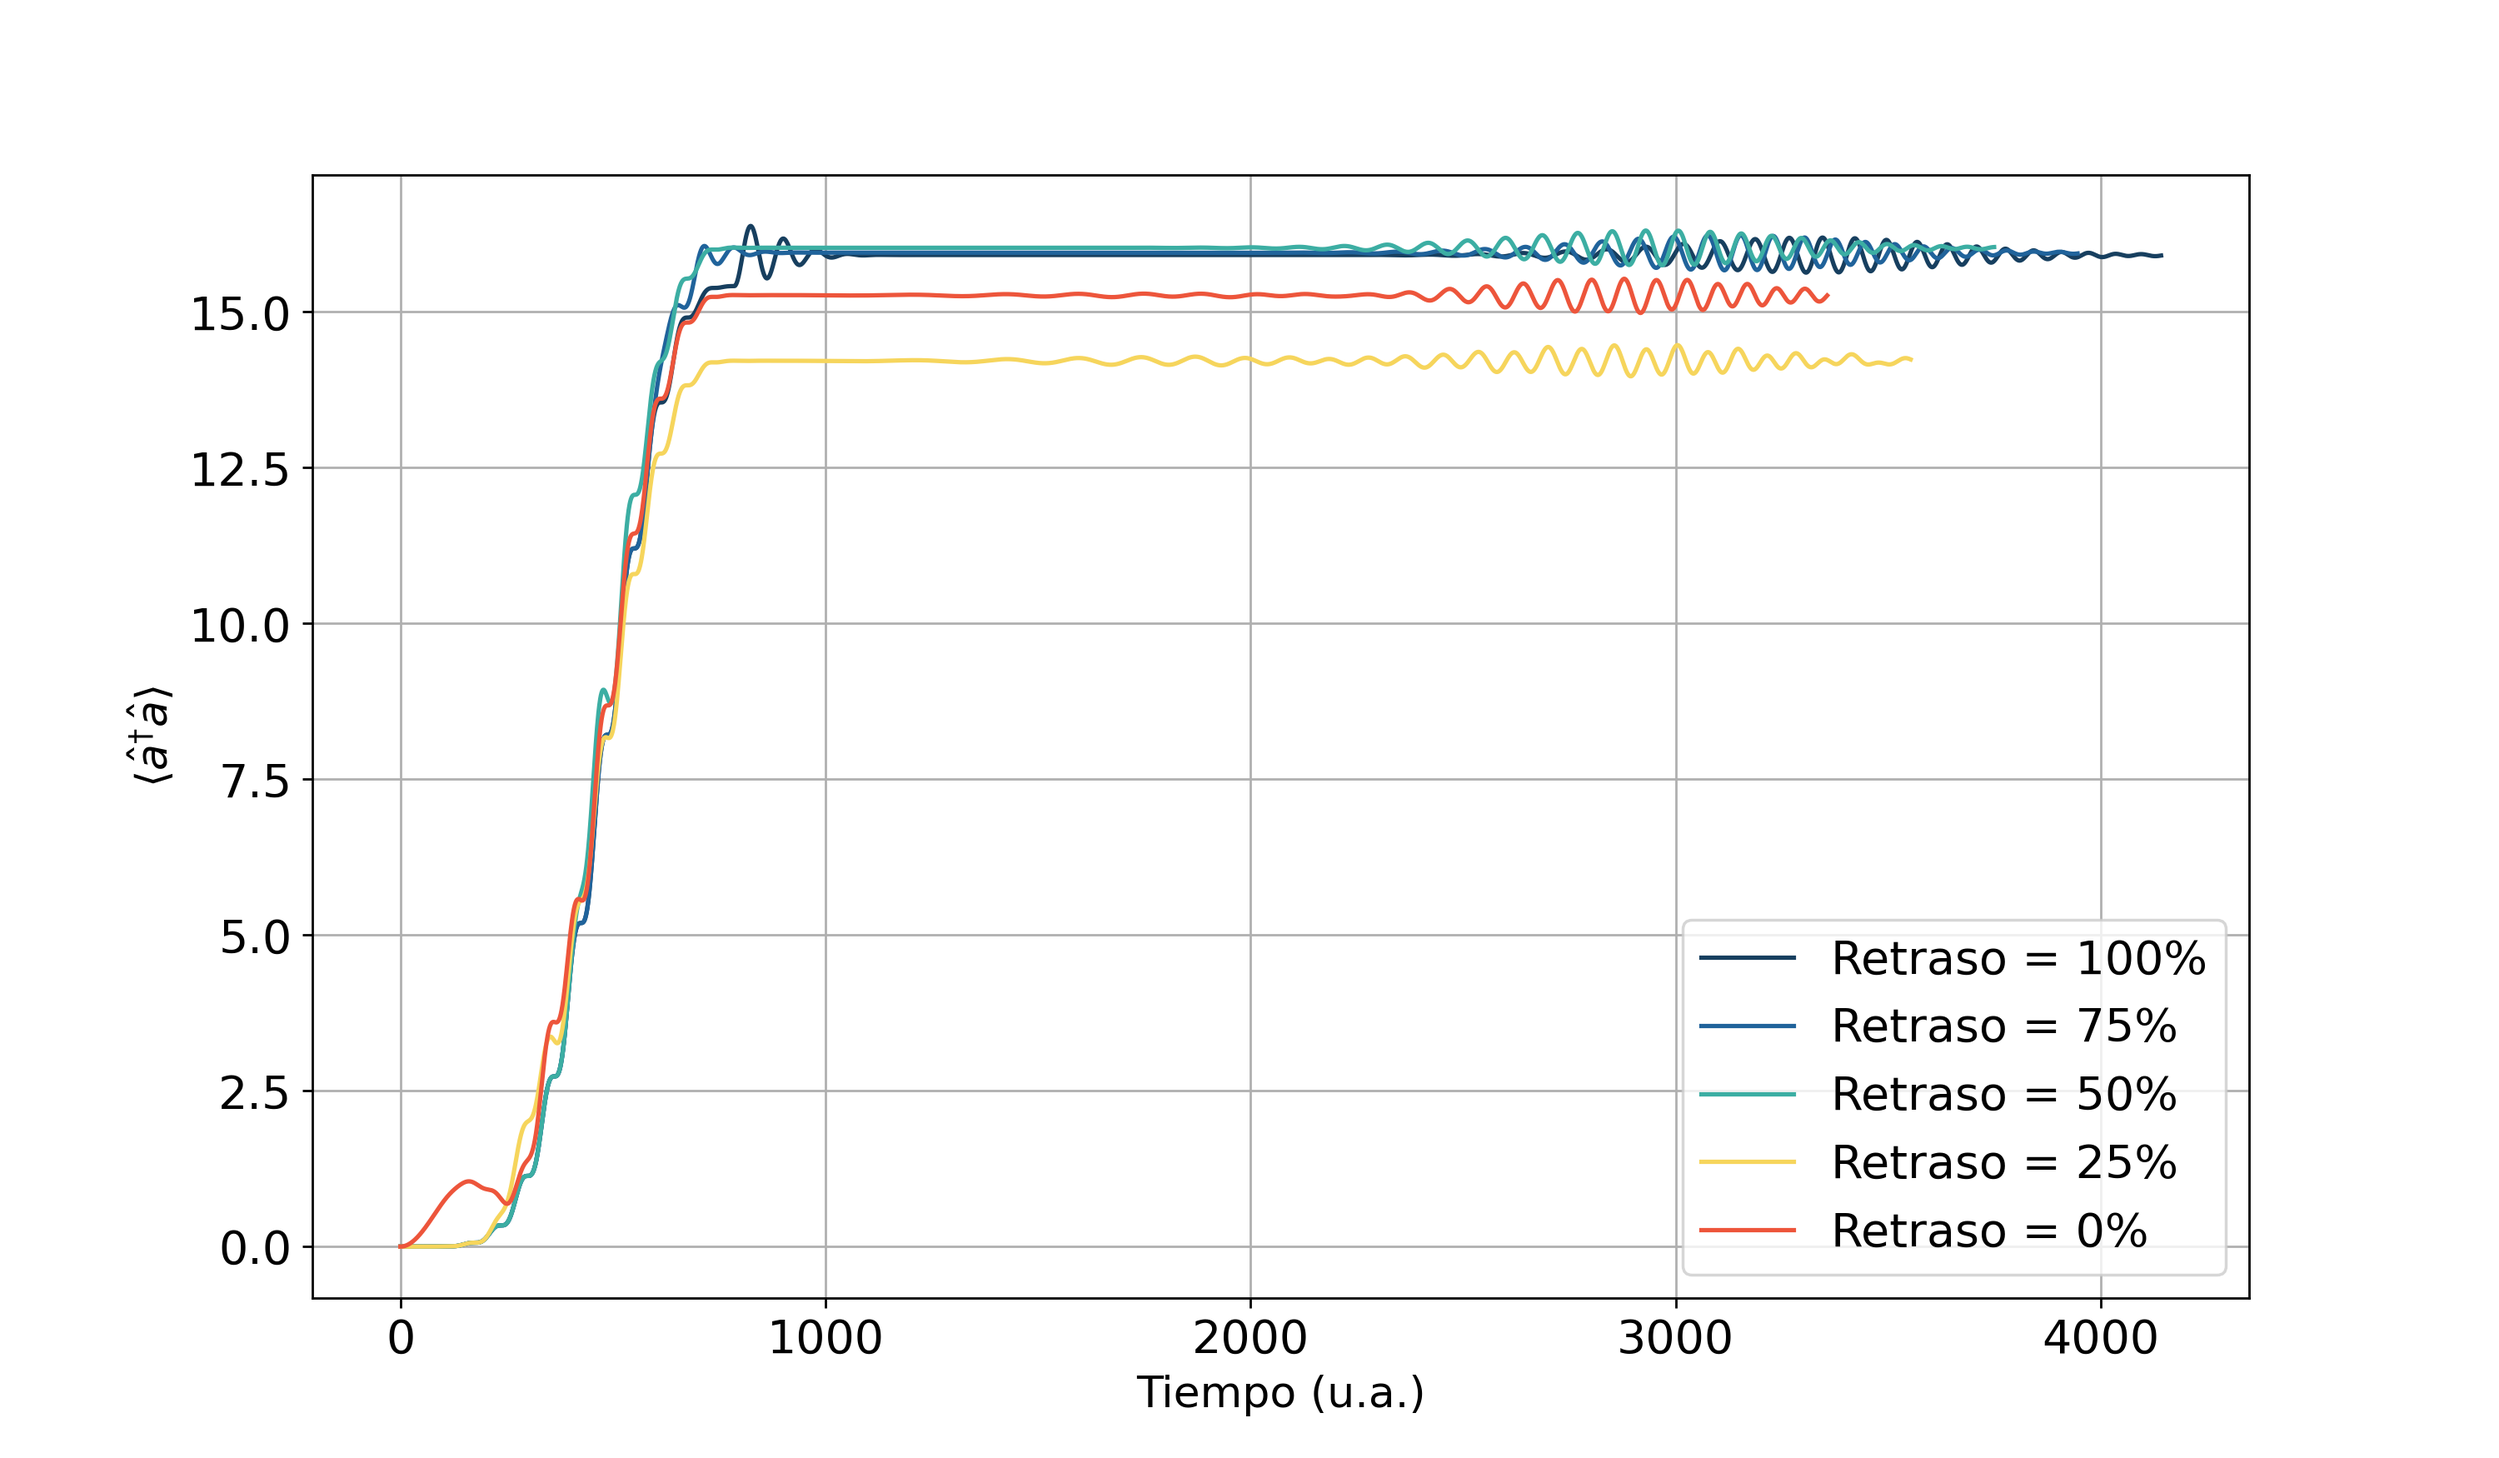
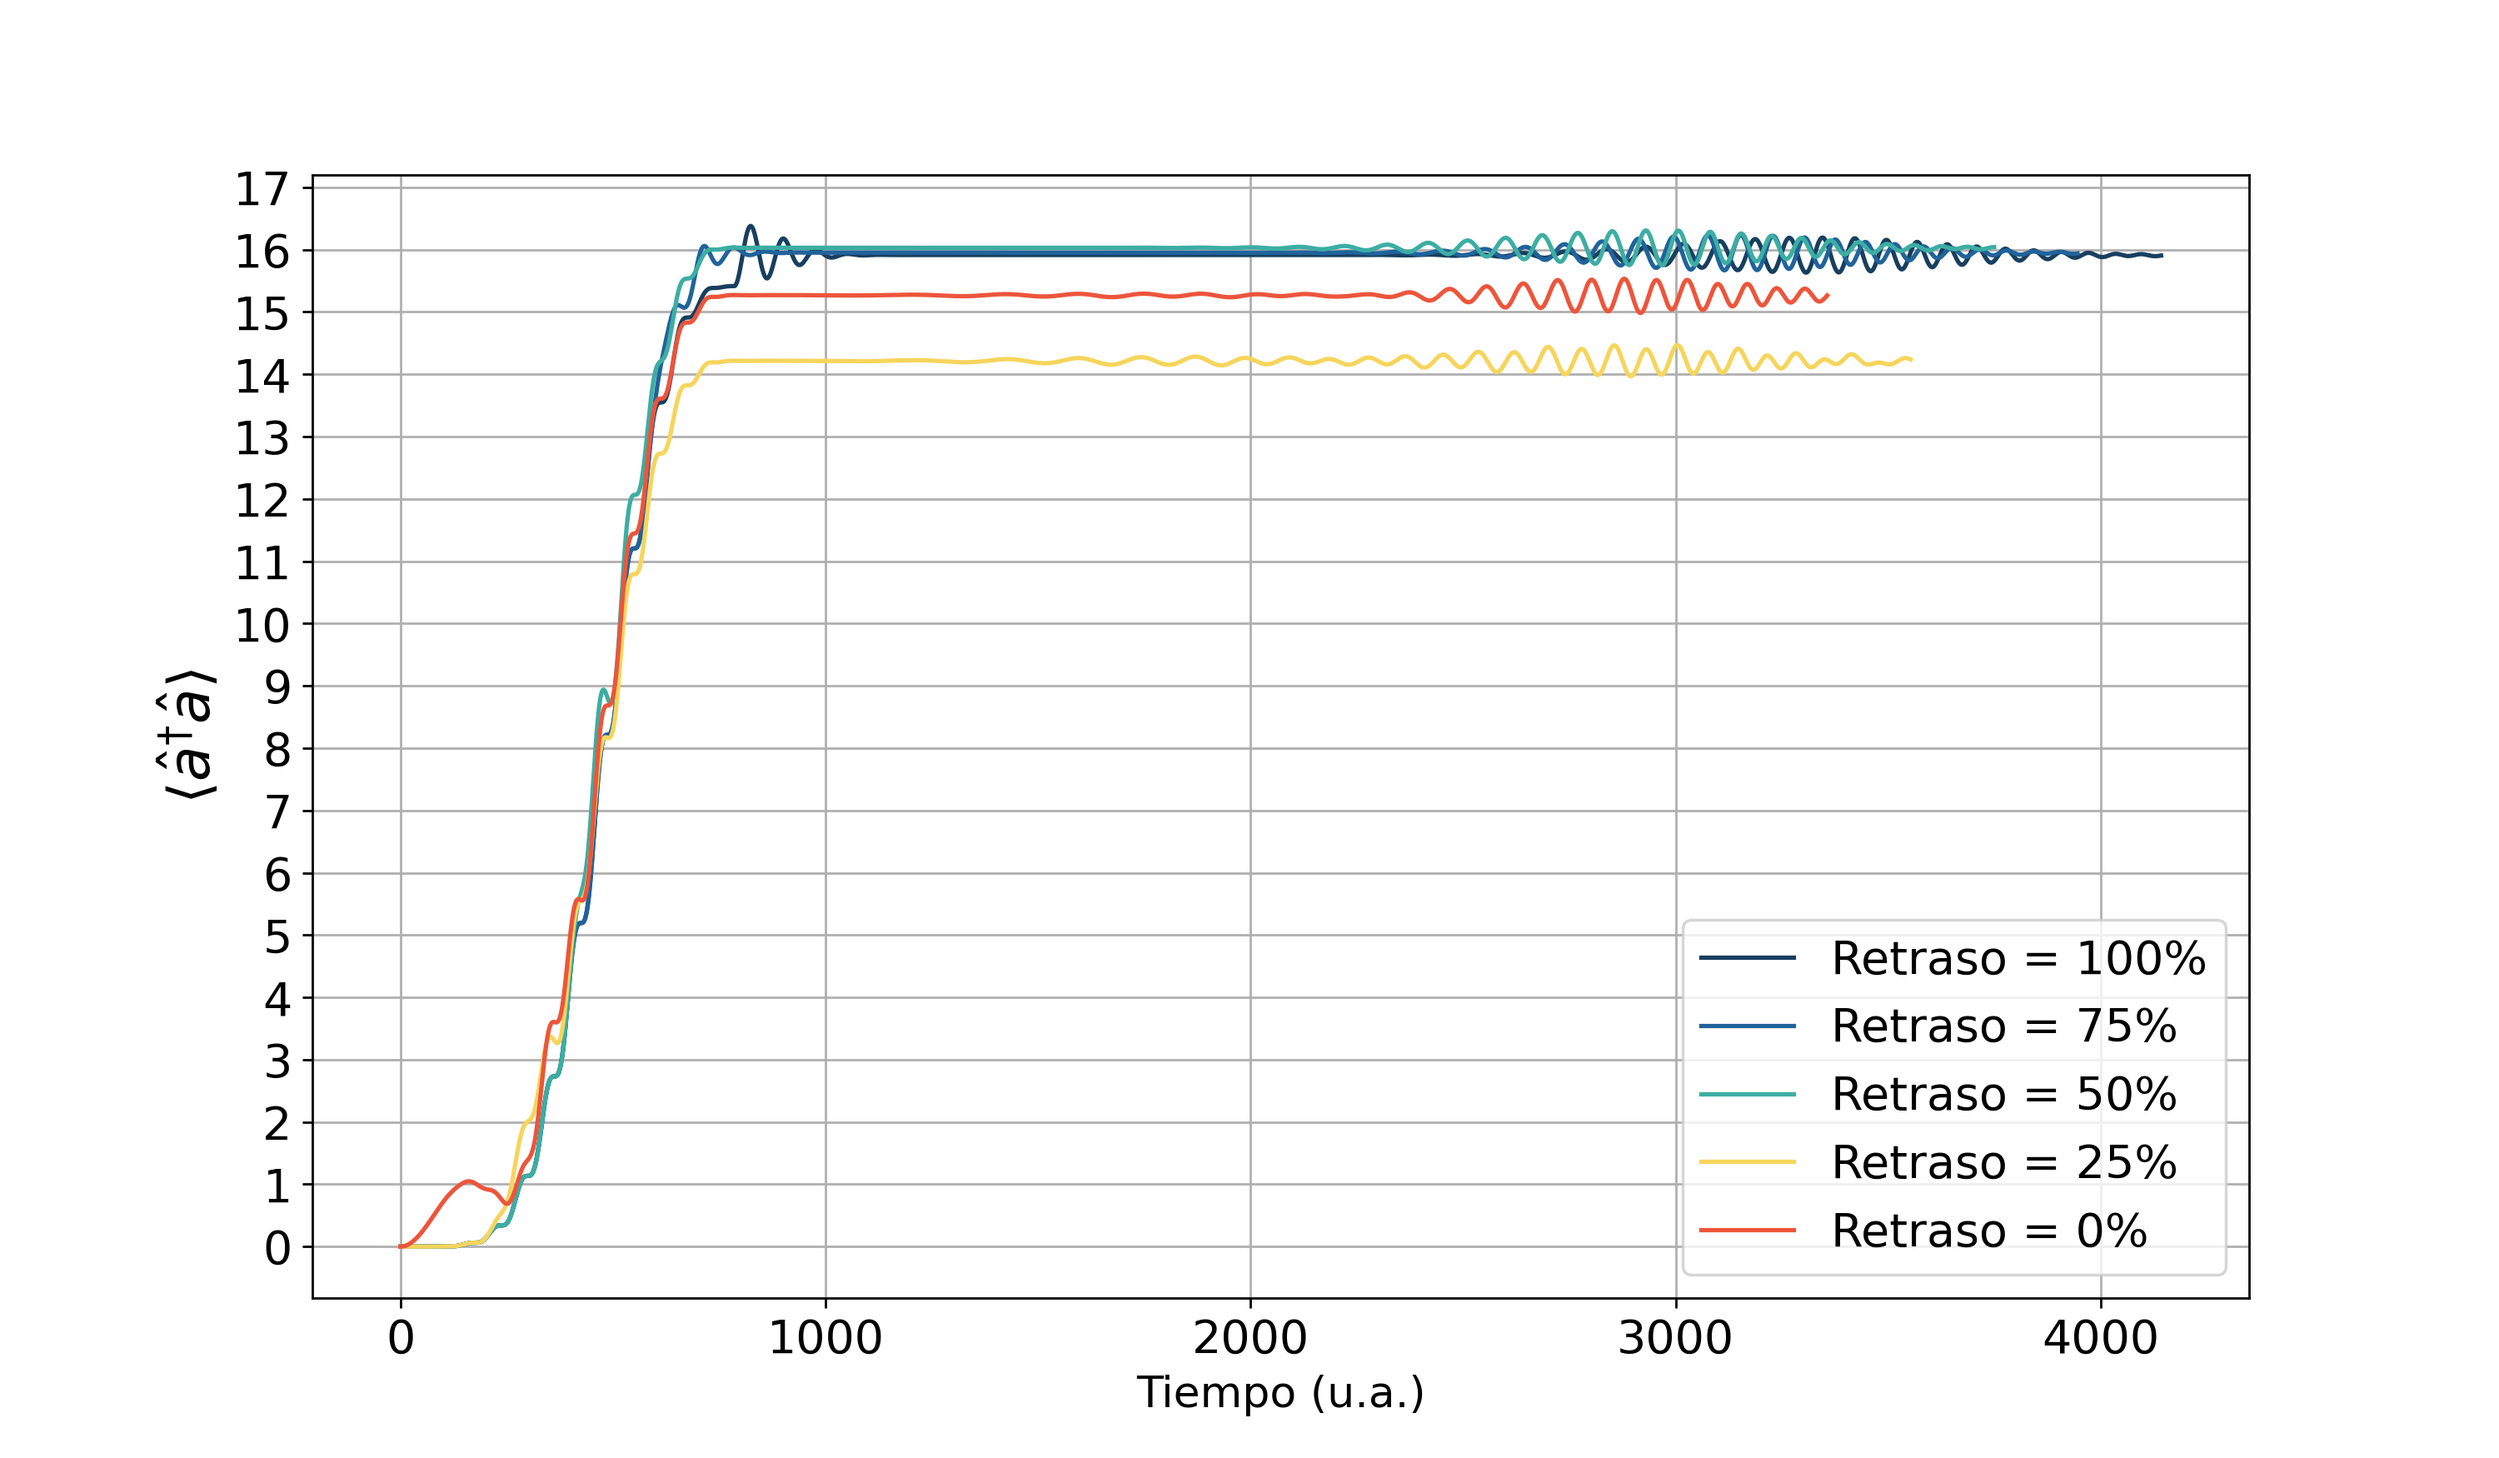
Imagenes finales.

diff --git a/execute_retraso_negative_3_casos.py b/execute_retraso_negative_3_casos.py
@@ -1,14 +1,24 @@
-from population_average_const_env_retraso import *
+from population_average_const_env_retraso_negative import *
 N=40
 omega_c, omega_0, omega_l = 0.05, 0.05, 0.05
 g = 0.01
 E0 = 0.02
+#n=2
+#Voy  dejar fijo n para que el tiempo de pulso siempre sea el mismo
 n=2
+n1=6
+n2=3
+n3=6
+tf= (2*n+1)*np.pi/(2*g)
 area = "inversion"
 ini = ["e", 0]  
 num_steps = 5000
-tf= (2*n+1)*np.pi/(2*g)
-tg=3*tf+1000
+#tf= (2*n+1)*np.pi/(2*g)
+#tg=3*tf+1000
+tg1=(n1)*np.pi/(2*g)
+tg2=(2*n2+1)*np.pi/(2*g)
+tg3=(2*n3+1)*np.pi/(4*g)
+
 retraso=100
 
 
@@ -16,47 +26,45 @@ retraso=100
 #population_inversion_variedades(N, omega_l, omega_0, omega_c, g, E0, n, variedades, area, ini, num_steps)
 #population_inversion(N, omega_l, omega_0, omega_c, g, E0, n, area, ini, num_steps,retraso)
 print(tf)
-print(tg)
+#print(tg)
 
 import matplotlib.pyplot as plt
 
 import matplotlib.pyplot as plt
 
 # population_inversion(N, omega_l, omega_0, omega_c, g, E0, n, area, ini, num_steps, tf, ti, tg)
-retraso1 = population_inversion_all(N, omega_l, omega_0, omega_c, g, E0, area, ini, num_steps, tf, tg, 100)
-retraso2 = population_inversion_all(N, omega_l, omega_0, omega_c, g, E0, area, ini, num_steps, tf, tg, 75)
-retraso3 = population_inversion_all(N, omega_l, omega_0, omega_c, g, E0, area, ini, num_steps, tf, tg, 50)
-retraso4 = population_inversion_all(N, omega_l, omega_0, omega_c, g, E0, area, ini, num_steps, tf, tg, 25)
-retraso5 = population_inversion_all(N, omega_l, omega_0, omega_c, g, E0, area, ini, num_steps, tf, tg, 0)
+retraso1 = population_inversion_all(N, omega_l, omega_0, omega_c, g, E0, area, ini, num_steps, tf, tg1, 100)
+retraso2 = population_inversion_all(N, omega_l, omega_0, omega_c, g, E0, area, ini, num_steps, tf, tg2, 100)
+retraso3 = population_inversion_all(N, omega_l, omega_0, omega_c, g, E0, area, ini, num_steps, tf, tg3, 100)
+
 
 # Crear un subplot con 5 filas y 1 columna
-fig, axs = plt.subplots(5, 1, figsize=(16, 18), facecolor='w', sharex=True)
+fig, axs = plt.subplots(3, 1, figsize=(16, 18), facecolor='w', sharex=True)
 # Ajustar el tamaño de la figura
 fig.subplots_adjust(hspace=0.5, left=0.1, right=0.9, top=0.95, bottom=0.05)
 
 # Graficar cada retrazo
-for i, retraso in enumerate([retraso1, retraso2, retraso3, retraso4, retraso5]):
+for i, retraso in enumerate([retraso1, retraso2, retraso3]):
     #En cada esquina superior izquierda de cada subplot, agregar A) B) C) D) E)
     axs[i].text(0, 0.90,  chr(65 + i) + ")", transform=axs[i].transAxes, size=20, weight='bold')
     axs[i].plot(retraso[0], retraso[1], label=r'$\langle \hat{\sigma}_{3} \rangle$', color="#FFC30F", lw=2.5)
     axs[i].plot(retraso[0], retraso[3] * 50, label=r'$\lambda (t)$', color='black', lw=3)
     axs[i].plot(retraso[0], retraso[4] * 25, label="pulso", color="#C70039", lw=2)
     axs[i].tick_params(axis='y', labelsize=18)
+    axs[i].legend(fontsize=18)
     axs[i].grid()
 
     # Etiquetas en x solo para el último subplot
-    if i == 4:
+    if i == 2:
         axs[i].set_xlabel("Tiempo (u.a)", fontsize=18)
         axs[i].set_xticks([valor for valor in axs[i].get_xticks() if valor >= axs[i].get_xlim()[0] and valor <= axs[i].get_xlim()[1]])
         axs[i].tick_params(axis='x', labelsize=18)
         axs[i].tick_params(axis='y', labelsize=18)
 
     # Etiquetas en x solo para el último subplot
-    if i == 0:
+    if i == 0 or i == 1 or i == 2:
          axs[i].plot(retraso[0], retraso[1], label=r'$\langle \hat{\sigma}_{3} \rangle$ Analítico', color="blue", lw=0.75)
-         
-    axs[i].legend(fontsize=18)
-        
+         axs[i].legend(fontsize=18)
 
 # Unificar leyendas
 handles, labels = axs[0].get_legend_handles_labels()
@@ -66,30 +74,25 @@ fig.legend(handles, labels, loc='upper right', bbox_to_anchor=(1.1, 0.90), fonts
 plt.tight_layout()
 
 # Ajustar el tamaño de la imagen al guardarla (aumentando el dpi)
-plt.savefig('Inversiones_plus.png', dpi=250)
+plt.savefig('Inversiones_minus_3.png', dpi=250)
 
 # Mostrar el gráfico
 plt.show()
-
-
-#Ahora grafiquemos en una sola figura el número promedio de fotones
-#Sin subplots
 
 # Graficamos el numero promedio de fotones
 plt.figure(figsize=(12,7))
 plt.grid()
 #plt.title("Inversion de poblacion y numero promedio de fotones",fontsize=20)
-plt.plot(retraso1[0], retraso1[2], label="Retraso = 100%",color='#173F5F')
-plt.plot(retraso2[0], retraso2[2], label="Retraso = 75%",color='#20639B')
-plt.plot(retraso3[0], retraso3[2], label="Retraso = 50%",color='#3CAEA3')
-plt.plot(retraso4[0], retraso4[2], label="Retraso = 25%",color='#F6D55C')
-plt.plot(retraso5[0], retraso5[2], label="Retraso = 0%",color='#ED553B')
-plt.xlabel('Tiempo (u.a.)',fontsize=15)
-plt.ylabel(r'$\langle \hat{a}^{\dagger}\hat{a} \rangle$',fontsize=20)
+plt.plot(retraso3[0], retraso1[2], label="Terminando en |e>",color='#3CAEA3')
+plt.plot(retraso2[0], retraso2[2], label="Terminando en |g>",color='#F6D55C')
+plt.plot(retraso1[0], retraso3[2], label="Terminando en |e>+|g>",color='#ED553B')
+#Quiero poner más stickers en el eje y, desde 0 hsta 18, de 1 en 1
 plt.yticks(np.arange(0, 18, 1))
+plt.xlabel('Tiempo (u.a.)',fontsize=15)
+plt.ylabel(r'$\langle \hat{a}^{\dagger}\hat{a} \rangle$',fontsize=15)
 plt.legend(fontsize=16)
 plt.xticks(fontsize=16)
 plt.yticks(fontsize=16)
-plt.savefig('Aver_plus.png', dpi=250)
+plt.savefig('Aver_minus-3.png', dpi=250)
 
 plt.show()

diff --git a/execute_retraso_negative.py b/execute_retraso_negative.py
@@ -3,12 +3,16 @@ N=40
 omega_c, omega_0, omega_l = 0.05, 0.05, 0.05
 g = 0.01
 E0 = 0.02
+#n=2
 n=2
+n2=6
 area = "inversion"
 ini = ["e", 0]  
 num_steps = 5000
+#tf= (2*n+1)*np.pi/(2*g)
 tf= (2*n+1)*np.pi/(2*g)
-tg=3*tf+1000
+#tg=3*tf+1000
+tg=(2*n2+1)*np.pi/(4*g)
 retraso=100
 
 
@@ -74,11 +78,11 @@ plt.show()
 plt.figure(figsize=(12,7))
 plt.grid()
 #plt.title("Inversion de poblacion y numero promedio de fotones",fontsize=20)
-plt.plot(retraso1[0], retraso5[2], label="Retraso = 100%",color='#173F5F')
-plt.plot(retraso2[0], retraso4[2], label="Retraso = 75%",color='#20639B')
+plt.plot(retraso5[0], retraso5[2], label="Retraso = 100%",color='#173F5F')
+plt.plot(retraso4[0], retraso4[2], label="Retraso = 75%",color='#20639B')
 plt.plot(retraso3[0], retraso3[2], label="Retraso = 50%",color='#3CAEA3')
-plt.plot(retraso4[0], retraso2[2], label="Retraso = 25%",color='#F6D55C')
-plt.plot(retraso5[0], retraso1[2], label="Retraso = 0%",color='#ED553B')
+plt.plot(retraso2[0], retraso2[2], label="Retraso = 25%",color='#F6D55C')
+plt.plot(retraso1[0], retraso1[2], label="Retraso = 0%",color='#ED553B')
 plt.xlabel('Tiempo (u.a.)',fontsize=15)
 plt.ylabel(r'$\langle \hat{a}^{\dagger}\hat{a} \rangle$',fontsize=15)
 plt.legend(fontsize=16)

diff --git a/execute_retraso_intermedio.py b/execute_retraso_intermedio.py
@@ -77,6 +77,7 @@ plt.ylabel(r'$\langle \hat{a}^{\dagger}\hat{a} \rangle$',fontsize=15)
 plt.legend(fontsize=16)
 plt.xticks(fontsize=16)
 plt.yticks(fontsize=16)
+plt.yticks(np.arange(0, 17, 1))
 plt.savefig('Aver_minus_int.png', dpi=250)
 
 plt.show()
